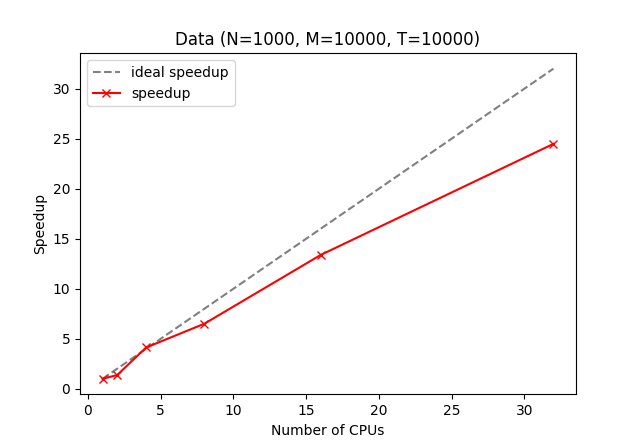
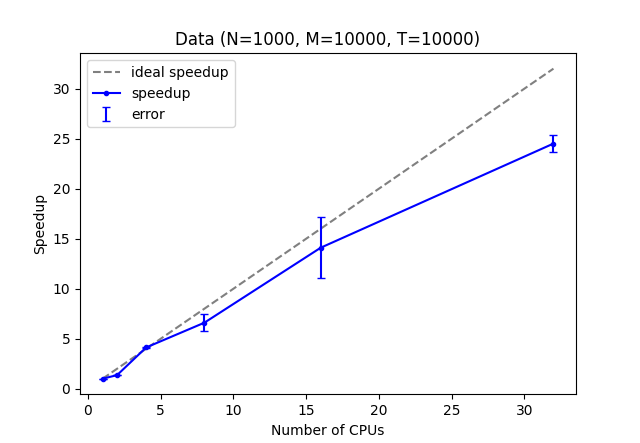
rapport erreur de dispersion

diff --git a/src/laplace.c b/src/laplace.c
@@ -85,7 +85,7 @@ void compute_scatterv_params(int *myRows, int *sendcounts, int* displ, int nProc
         if (rank == ROOT) {
             displ[ROOT] = 0;
         }
-        else displ[rank] = displ[rank-1] + sendcounts[rank-1] -max_J * 2;
+        else displ[rank] = displ[rank-1] + sendcounts[rank-1] -max_J*2;
     }
 }
 
@@ -167,7 +167,7 @@ int main(int argc, char** argv) {
     double *recv_top_row = malloc(max_J* sizeof(double)); 
     double *recv_bottom_row = malloc(max_J* sizeof(double));
 
-    time_t start_time = time(NULL);
+    //time_t start_time = time(NULL);
     for(int t=0; t<max_T; t++) {
 
         mat_evol(myBand, myRows[myRank], max_J); // compute band from all processes before communication
@@ -206,14 +206,13 @@ int main(int argc, char** argv) {
             MPI_Barrier(MPI_COMM_WORLD);
         }
     }
-    time_t end_time = time(NULL);
+    //time_t end_time = time(NULL);
 
     MPI_Gatherv(myBand, sendcounts[myRank], MPI_DOUBLE, U, sendcounts, displs, MPI_DOUBLE, ROOT, MPI_COMM_WORLD);
 
     if(myRank == ROOT) {
-        //printf("Result\n");
-        //print_mat(U, max_I, max_J);
         output_mat(U, max_I, max_J);
+        //print_mat(U, max_I, max_J);
         //printf("%d %d %d %d %.2f\n", nProc, max_I, max_J, max_T, ((double) (end_time - start_time)));
         free(U);
     }

diff --git a/doc/data/data_plot.py b/doc/data/data_plot.py
@@ -15,15 +15,18 @@ def plot_speedup(data, N, M, T):
 	speedup_sd = []
 	for n in nCPUS:
 		parallel_time = np.array([row for row in filtered_data if row[0] == n])
-		mean_parallel_time = np.mean(parallel_time[:,4])
-		speedup.append(mean_sequ_time/mean_parallel_time)
+		speedup_parallel = mean_sequ_time/parallel_time
+		speedup.append(np.mean(speedup_parallel[:,4]))
 		
-		parallel_time_sd = np.sd(parallel_time)
+		parallel_time_sd = np.std(speedup_parallel[:,4])
 		speedup_sd.append(parallel_time_sd)
 		
-
+	
+	print(speedup_sd)
+	
 	plt.plot(nCPUS, nCPUS, '--', color='grey', label='ideal speedup')
-	plt.plot(nCPUS, speedup, 'x-', color='red', label='speedup')
+	plt.plot(nCPUS, speedup, '.-', color='blue', label='speedup')
+	plt.errorbar(nCPUS, speedup, yerr=speedup_sd, color='blue', fmt='none', capsize=3, label='error')
 
 	plt.xlabel('Number of CPUs')
 	plt.ylabel('Speedup')

diff --git a/doc/rapport.md b/doc/rapport.md
@@ -2,13 +2,13 @@
 
 ### Stratégie de parallélisation
 
-<img src="figures/tab1.png" alt="Alt Text" style="zoom: 80%;" />
-
 Nous avons divisé l’espace en lignes par le nombre de processus, lorsque p ne divise pas n, les lignes restantes sont distribuées à partir du rang 0.
+
+<img src="figures/tab1.png" alt="Alt Text" style="zoom: 80%;" />
 
 Le tableau ci-dessus démontre une divison d’un domaine non divisible par p par trois processus représenté par le chiffre correspondant.
 
-L'application du stencil dans notre problème nécessite les valeurs adjacentes Nord, Sud, Est Ouest. Pour cela, lors de la division de l'espace pour chaque processus (scatterv), nous avons dupliqué les lignes adjacentes au processus voisins.
+L'application du stencil dans notre problème nécessite les valeurs adjacentes Nord, Sud, Est Ouest. Pour cela, lors de la division de l'espace pour chaque processus (scatterv), nous avons dupliqué les lignes adjacentes aux processus voisins.
 
 Voici le découpage par processus concerné:
 Processus 0:
